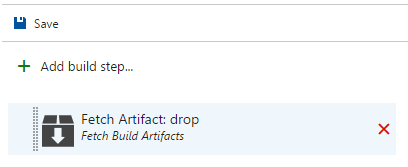
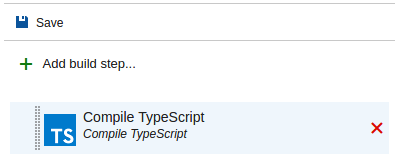
markdown update

diff --git a/overview.md b/overview.md
@@ -1,25 +1,21 @@
-# Fetch Build Artifacts
-Fetch build artifacts from any project and build definition.
-
-## Note
-This task requires **Allow Scripts to Access OAuth Token** to be **enabled**.
+# Compile TypeScript
+Compile TypeScript projects and files.
 
 ## Usage
-Add a new **Fetch Build Artifacts** task from the **Utility** category...
+Add a new **Compile TypeScript** task from the **Build** category...
 
 ![Task](images/task.png)
 
 ...and configure it as needed.
 
-![Parameters](images/screenshot.png)
+![Parameters](images/parameters_project.png)
+![Parameters](images/parameters_files.png)
 Parameters include:
-* **Project**: Project from where to fetch the build artifact. Leaving it blank defaults to the current project and is equal to using <code>$(System.TeamProject)</code>.
-* **Build Definition Id**: Id of build definition from where to fetch build artifact. Must be a valid numerical value, eg. '12', and an existing build definition.
-* **Build Artifact Name**: Name of the artifact to fetch, eg. 'drop'.
-* **Target Directory**: The directory where to download the artifact. Must be an existing directory. Leaving it blank defaults to source root directory and is equal to using <code>$(Build.SourcesDirectory)</code>.
+* **Compile**: Choose whether to compile a project (defined in a tsconfig.json file) or files.
+* **Path**: Path to a valid <code>tsconfig.json</code> file or directory containing the <code>tsconfig.json</code> file. Variables can be used. Leaving it blank defaults to source root directory and is equal to using <code>$(Build.SourcesDirectory)</code>.
+* **Working Directory**: Root directory that contains .ts files to compile. Variables can be used. Leaving it blank defaults to source root directory and is equal to using <code>$(Build.SourcesDirectory)</code>.
+* **Files**: Files to compile separated by space character (' '). Relative paths to files in subfolders is supported. Variables can be used.
 
 
 ## Having Problems?
-Please [create an issue on our Github](https://github.com/BoolBySigma/FetchBuildArtifact/issues) and we will try to help you.
-
-Icons made by [Freepik](http://www.freepik.com) from [Flaticon](http://www.flaticon.com) is licensed by [CC 3.0 BY](http://creativecommons.org/licenses/by/3.0/)
+Please [create an issue on our Github](https://github.com/BoolBySigma/CompileTypeScript/issues) and we will try to help you.
